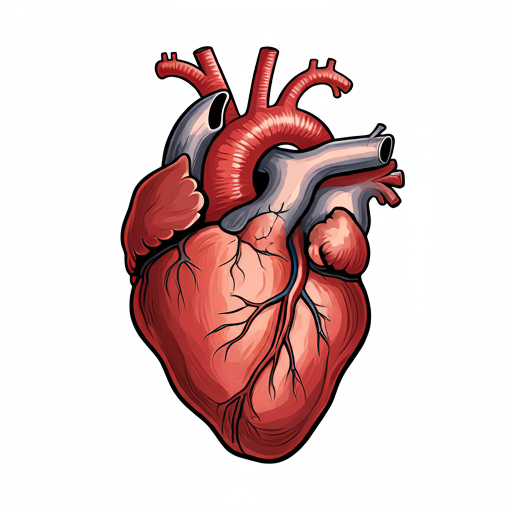
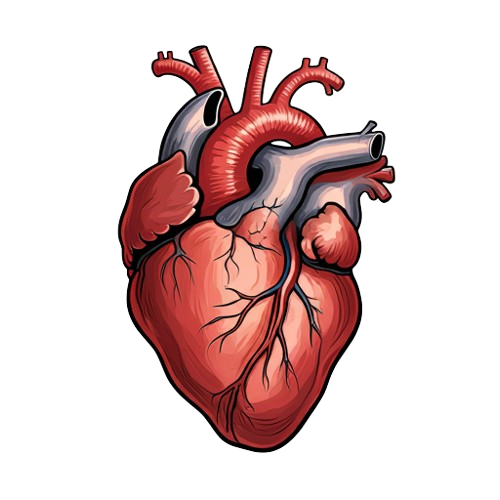
Changed pics to transparent PNGs
I took Kazan's donations homepage pictures converted them to transparent PNGs for vanity purposes

diff --git a/Donations-Homepage.html b/Donations-Homepage.html
@@ -64,11 +64,11 @@
              <h1>Types Of Donations</h1>
              <a href="MoneyDonations.html" target="_blank"></a>
              <a href="MoneyDonations.html" class="button-link">
-             <img src="CSS Sheets/Images/DonationsImages/Money.avif" width="200" height="200" alt="Icon" class="button-image" align="center"></a>
+             <img src="CSS Sheets/Images/DonationsImages/Money.png" width="200" height="200" alt="Icon" class="button-image" align="center"></a>
              <label for="myButton">Money Donations</label>
              <a href="BloodDonations.html" target="_blank"></a>
              <a href="BloodDonations.html" class="button-link">
-             <img src="CSS Sheets/Images/DonationsImages/Blood bag.webp" width="200" height="200" alt="Icon" class="button-image" align="center"></a>
+             <img src="CSS Sheets/Images/DonationsImages/Blood bag.png" width="200" height="200" alt="Icon" class="button-image" align="center"></a>
              <label for="myButton">Blood Donations</label>
              <a href="OrganDonations.html" target="_blank"></a>
              <a href="OrganDonations.html" class="button-link">
